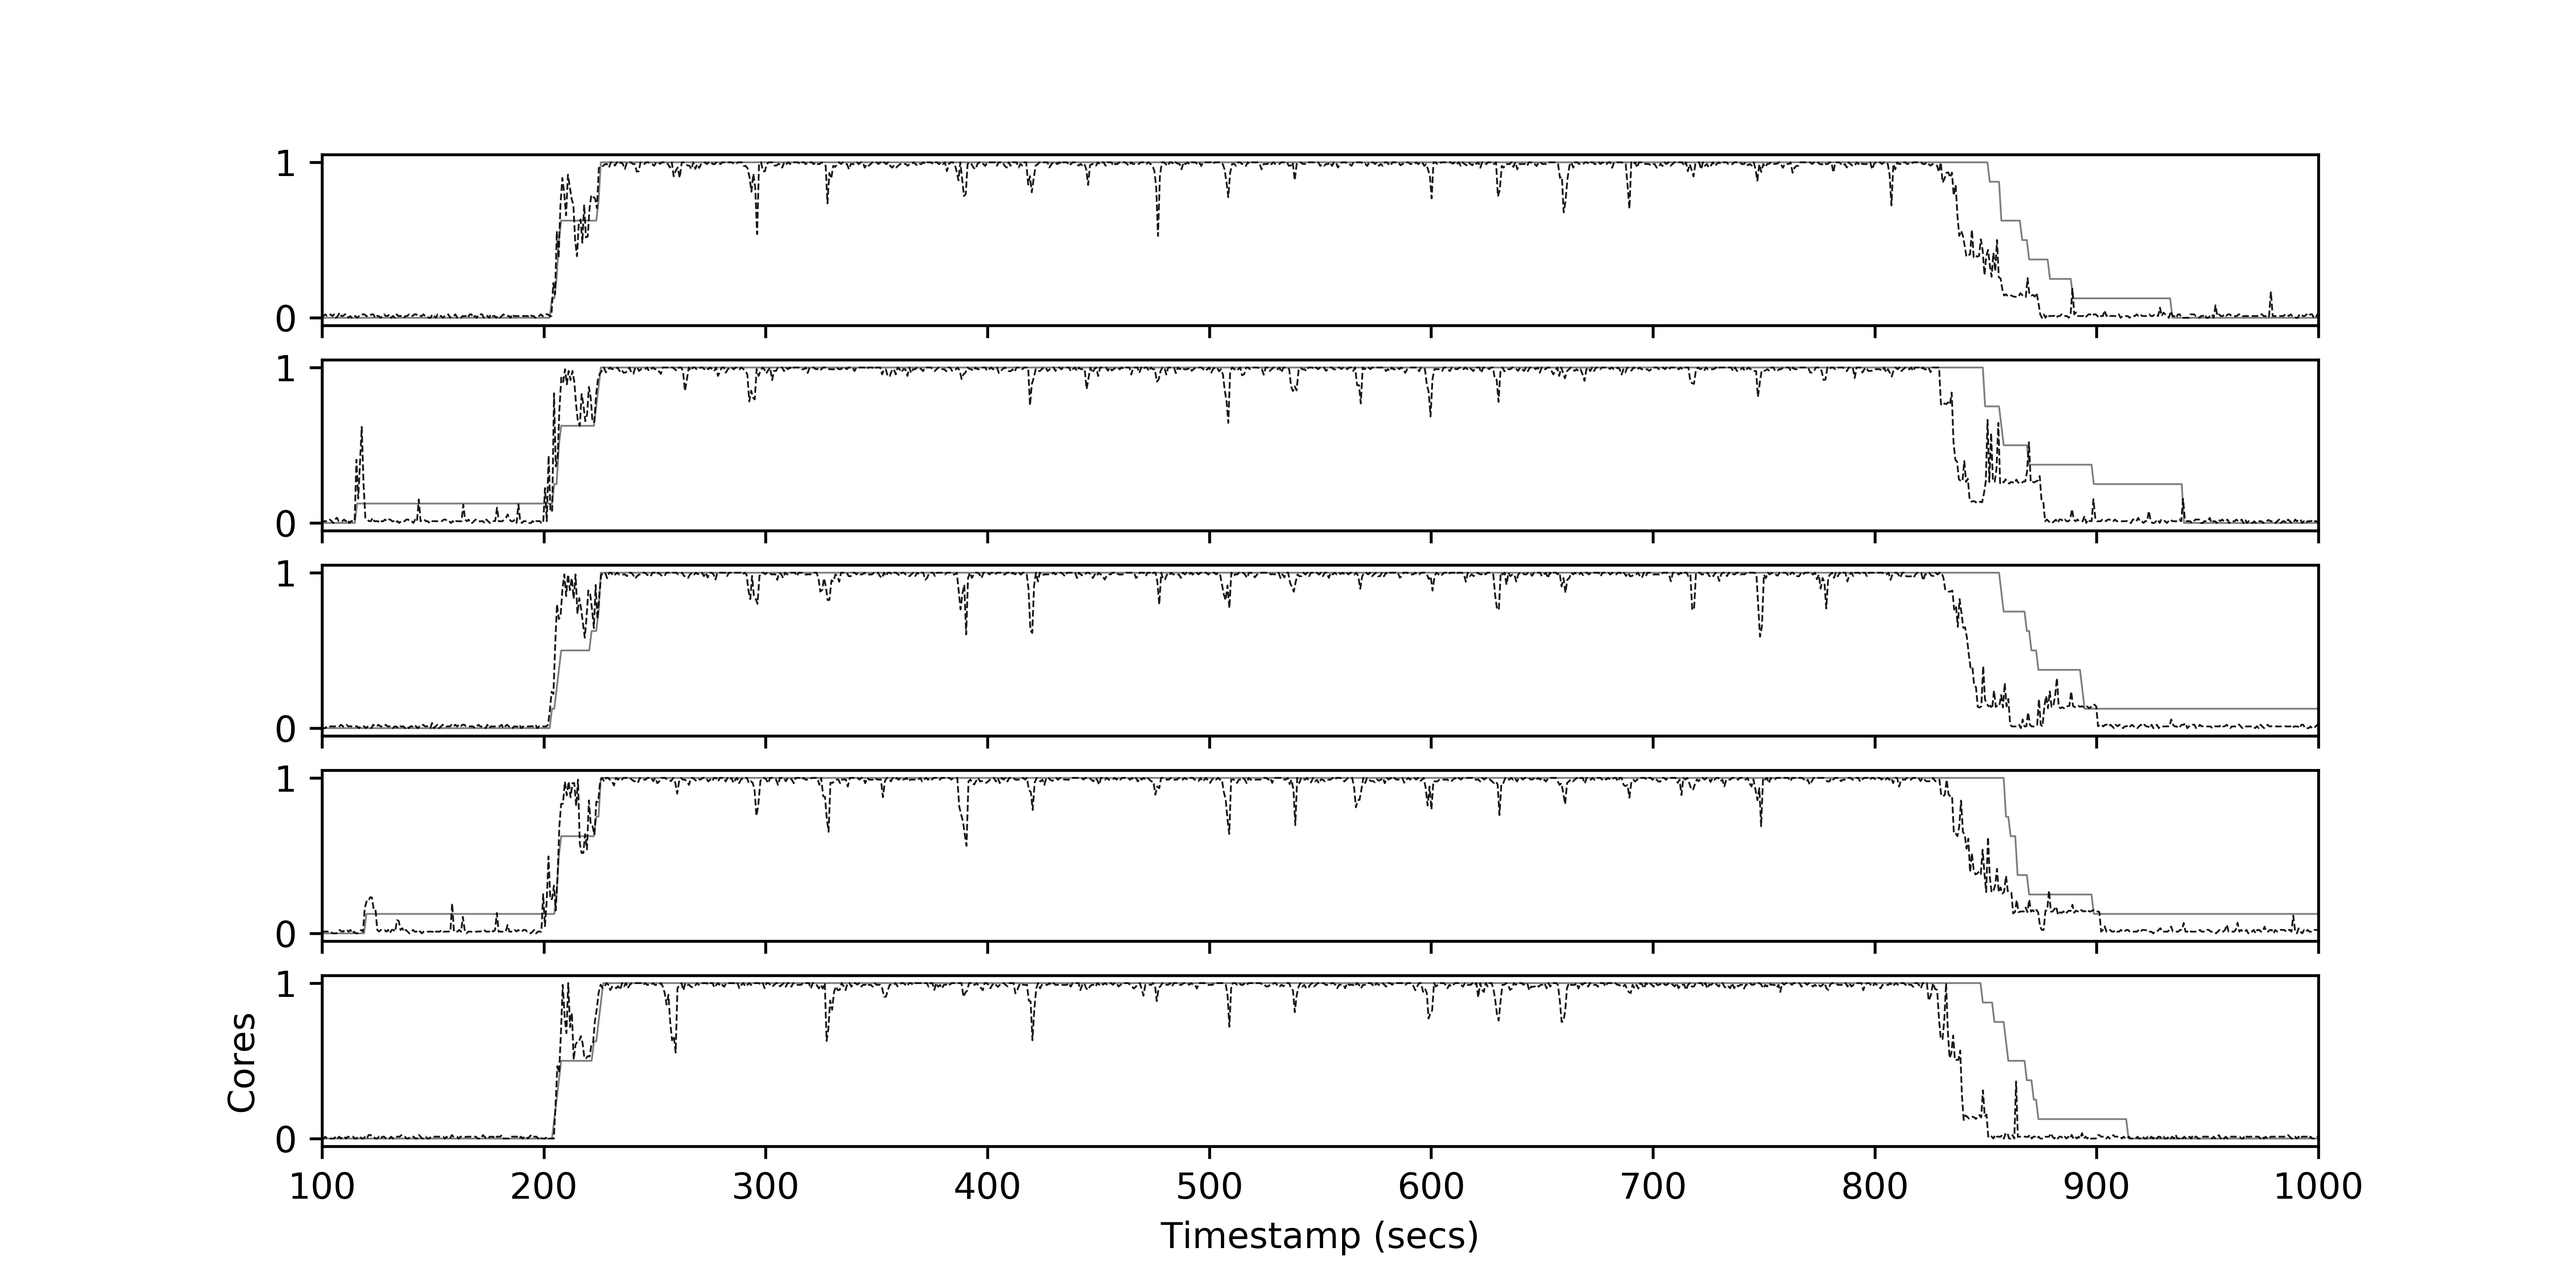
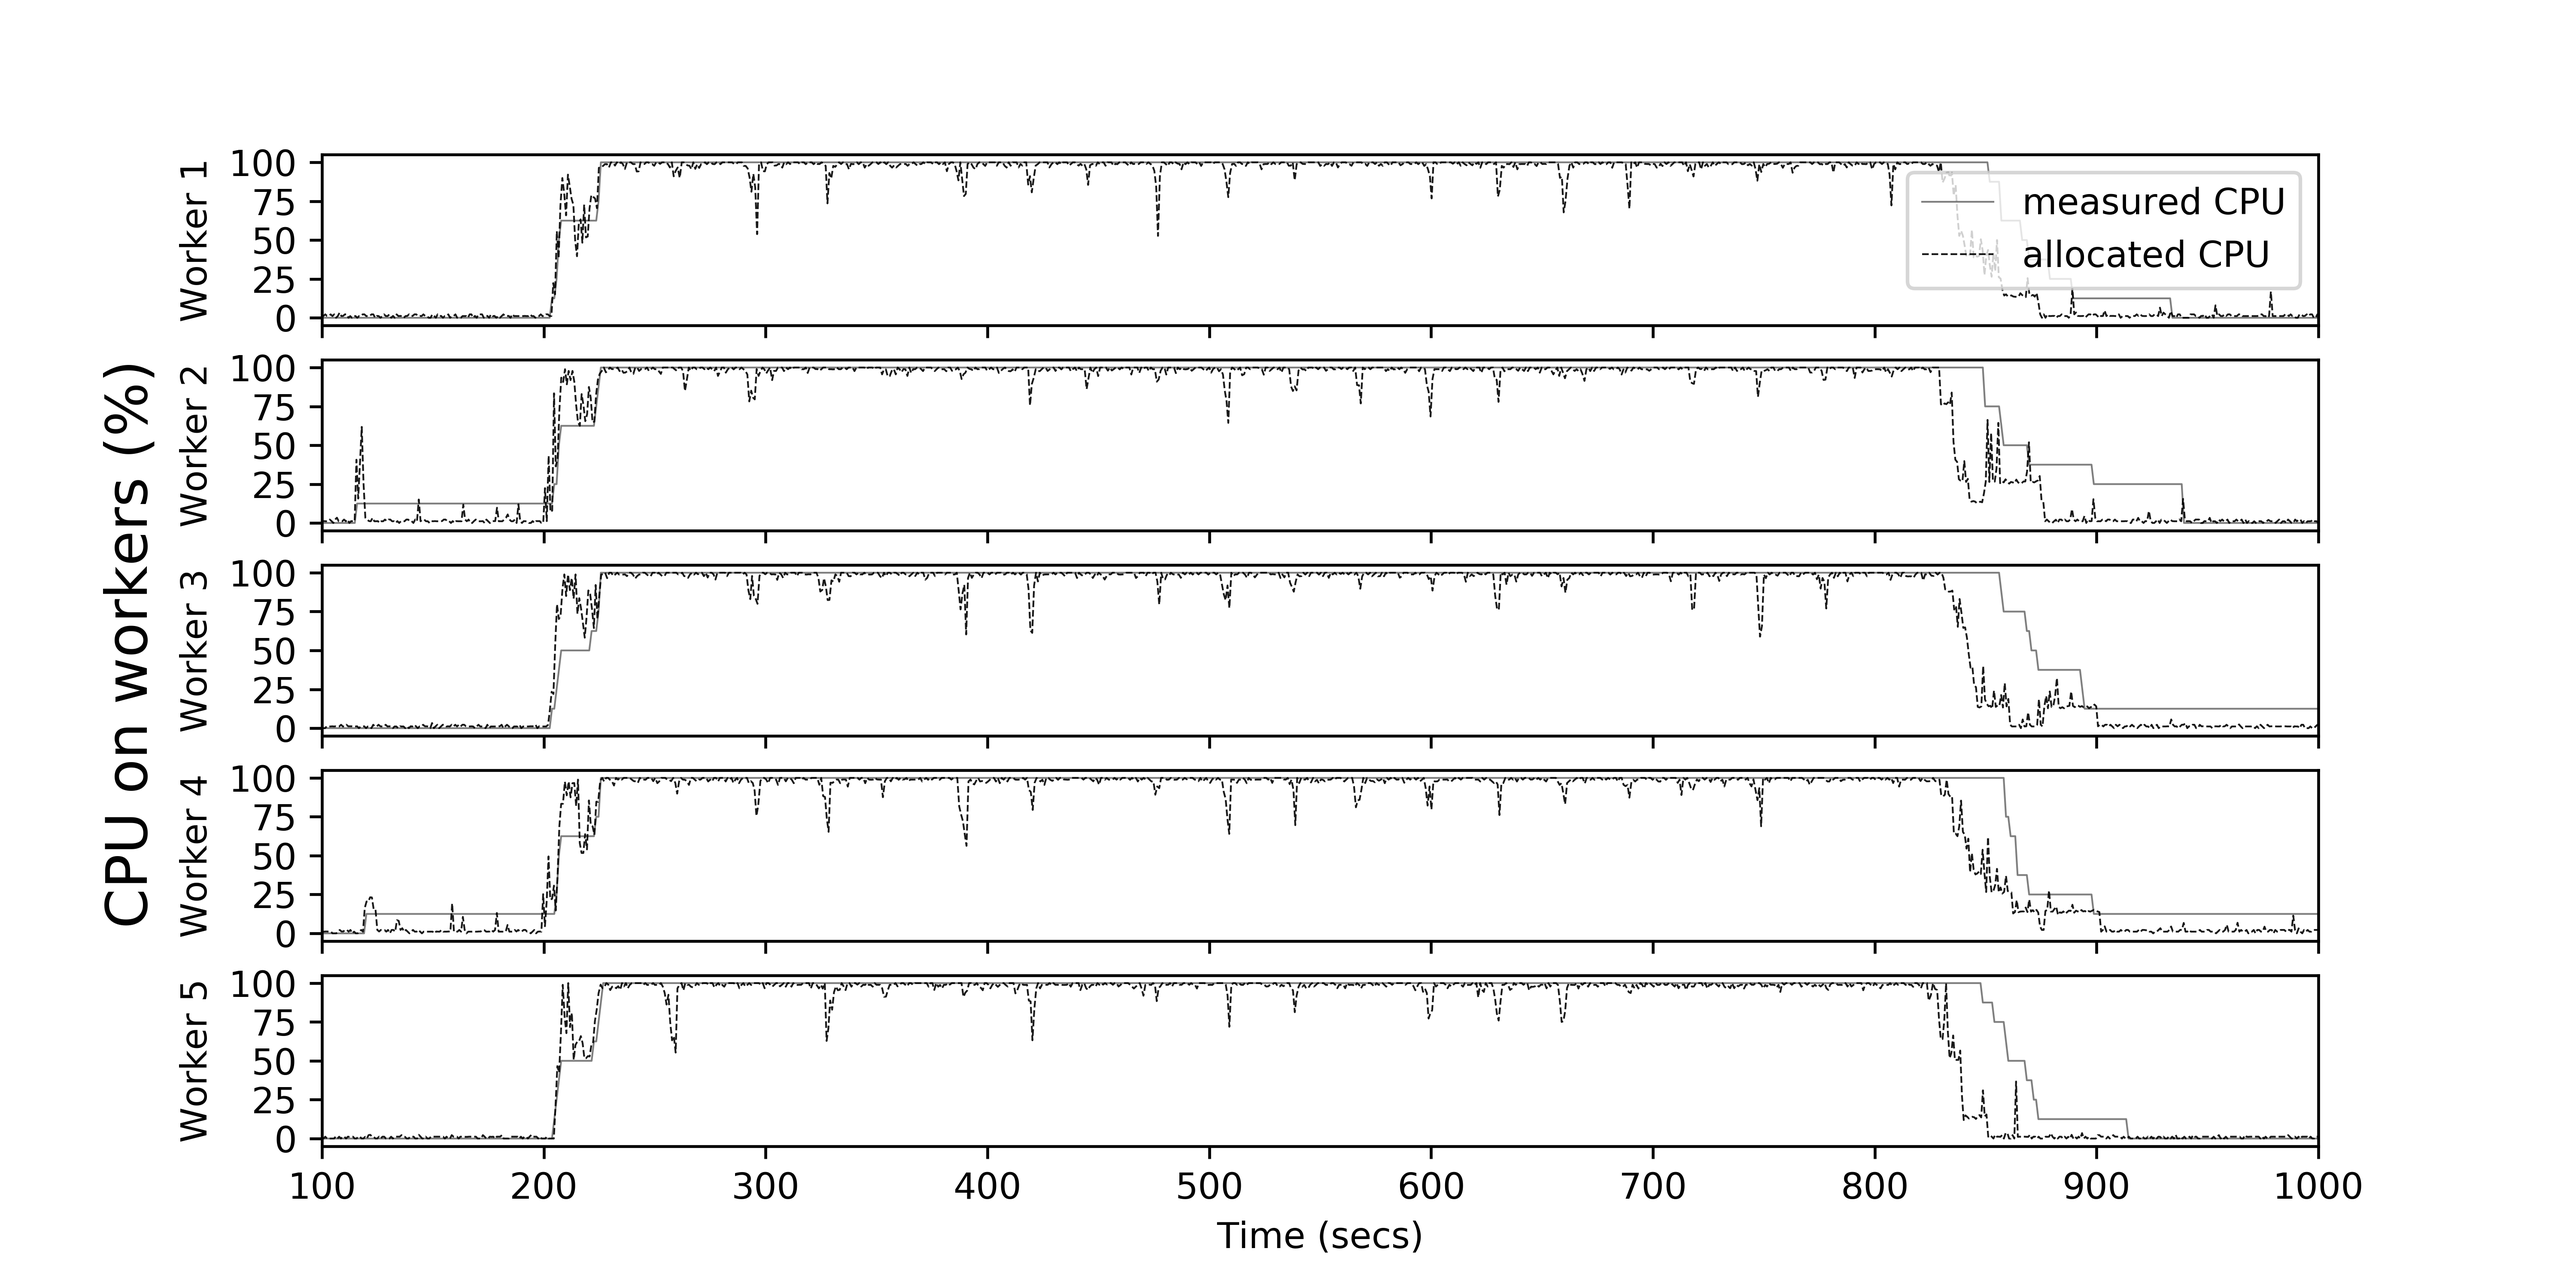
make combined plot look like Olivers

diff --git a/spark/analysis-per-worker.py b/spark/analysis-per-worker.py
@@ -26,24 +26,47 @@ start_ts = cores_data_np[0, 0]
 plt.rc('figure', figsize=(10, 5))
 plt.title('CPU usage on Spark cluster')
 
+# plt.subplots_adjust(left=0.1)
+
 
 # Creates two subplots and unpacks the output array immediately
-f, axeses = plt.subplots(5, 1, sharey=True, sharex=True)
+fig, axeses = plt.subplots(5, 1, sharey=True, sharex=True)
 
 for worker_id, axes in enumerate(axeses):
 
+
     cpu_data_np = np.array(cpu_data[worker_id])
 
+    axes.plot(cores_data_np[:, 0] - start_ts, cores_data_np[:, 1 + worker_id] / 8, label='measured CPU', linestyle="-", lw=0.5, color="black", alpha=0.5)
+    # Spark Executor Cores (5x SSC.XLARGE)
+    axes.plot(cpu_data_np[:, 0] - start_ts, cpu_data_np[:, 1], label='allocated CPU', linestyle="--", lw=0.5, color="black", alpha=0.9)
 
-    axes.plot(cores_data_np[:, 0] - start_ts, cores_data_np[:, 1 + worker_id] / 8, label='CPU usage', linestyle="-", lw=0.5, color="black", alpha=0.5)
-    axes.plot(cpu_data_np[:, 0] - start_ts, cpu_data_np[:, 1], label='Spark Executor Cores (5x SSC.XLARGE)', linestyle="--", lw=0.5, color="black", alpha=0.9)
+    plt.xlabel('Time (secs)')
+    plt.yticks(np.arange(0, 1.01, step=0.25), np.arange(0, 101, step=25))
 
-    # axes.legend()
-    plt.xlabel('Timestamp (secs)')
-    plt.ylabel('Cores')
+    # axes.set_yticks([0, 0.5, 1])
+    # axes.set_ylabel('Cores')
+    axes.set_ylabel(f'Worker {worker_id  +1 }')
 
     if TRIM:
         plt.xlim((start_timestamp, end_timestamp))
+
+    if worker_id == 0:
+        axes.legend(loc=1)
+
+
+font = {'size': 16}
+
+left, width = .04, .5
+bottom, height = .25, .5
+right = left + width
+top = bottom + height
+
+fig.text(left, 0.5*(bottom+top), 'CPU on workers (%)',
+        horizontalalignment='left',
+        verticalalignment='center',
+        rotation='vertical',
+        fontdict=font)
 
 plt.savefig(f'spark_{RUN}_combined.png', dpi=600)
 
